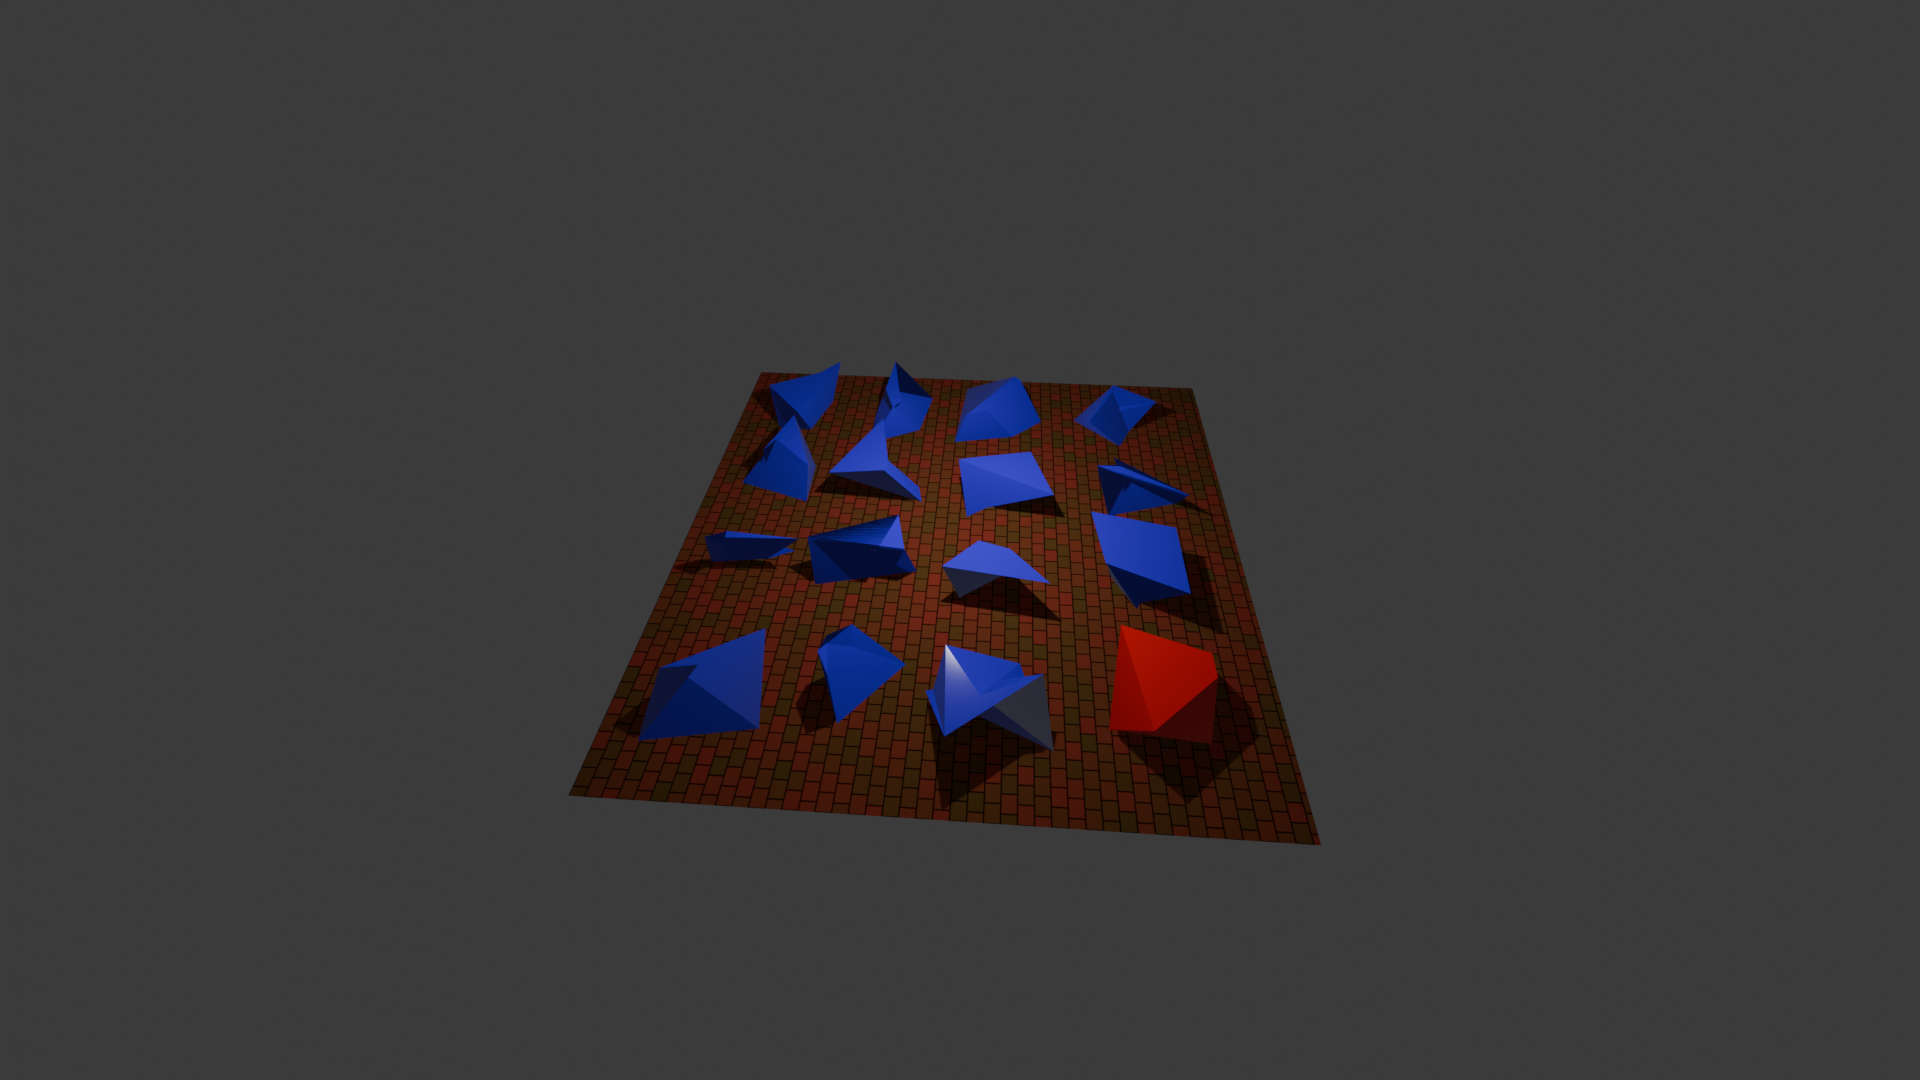
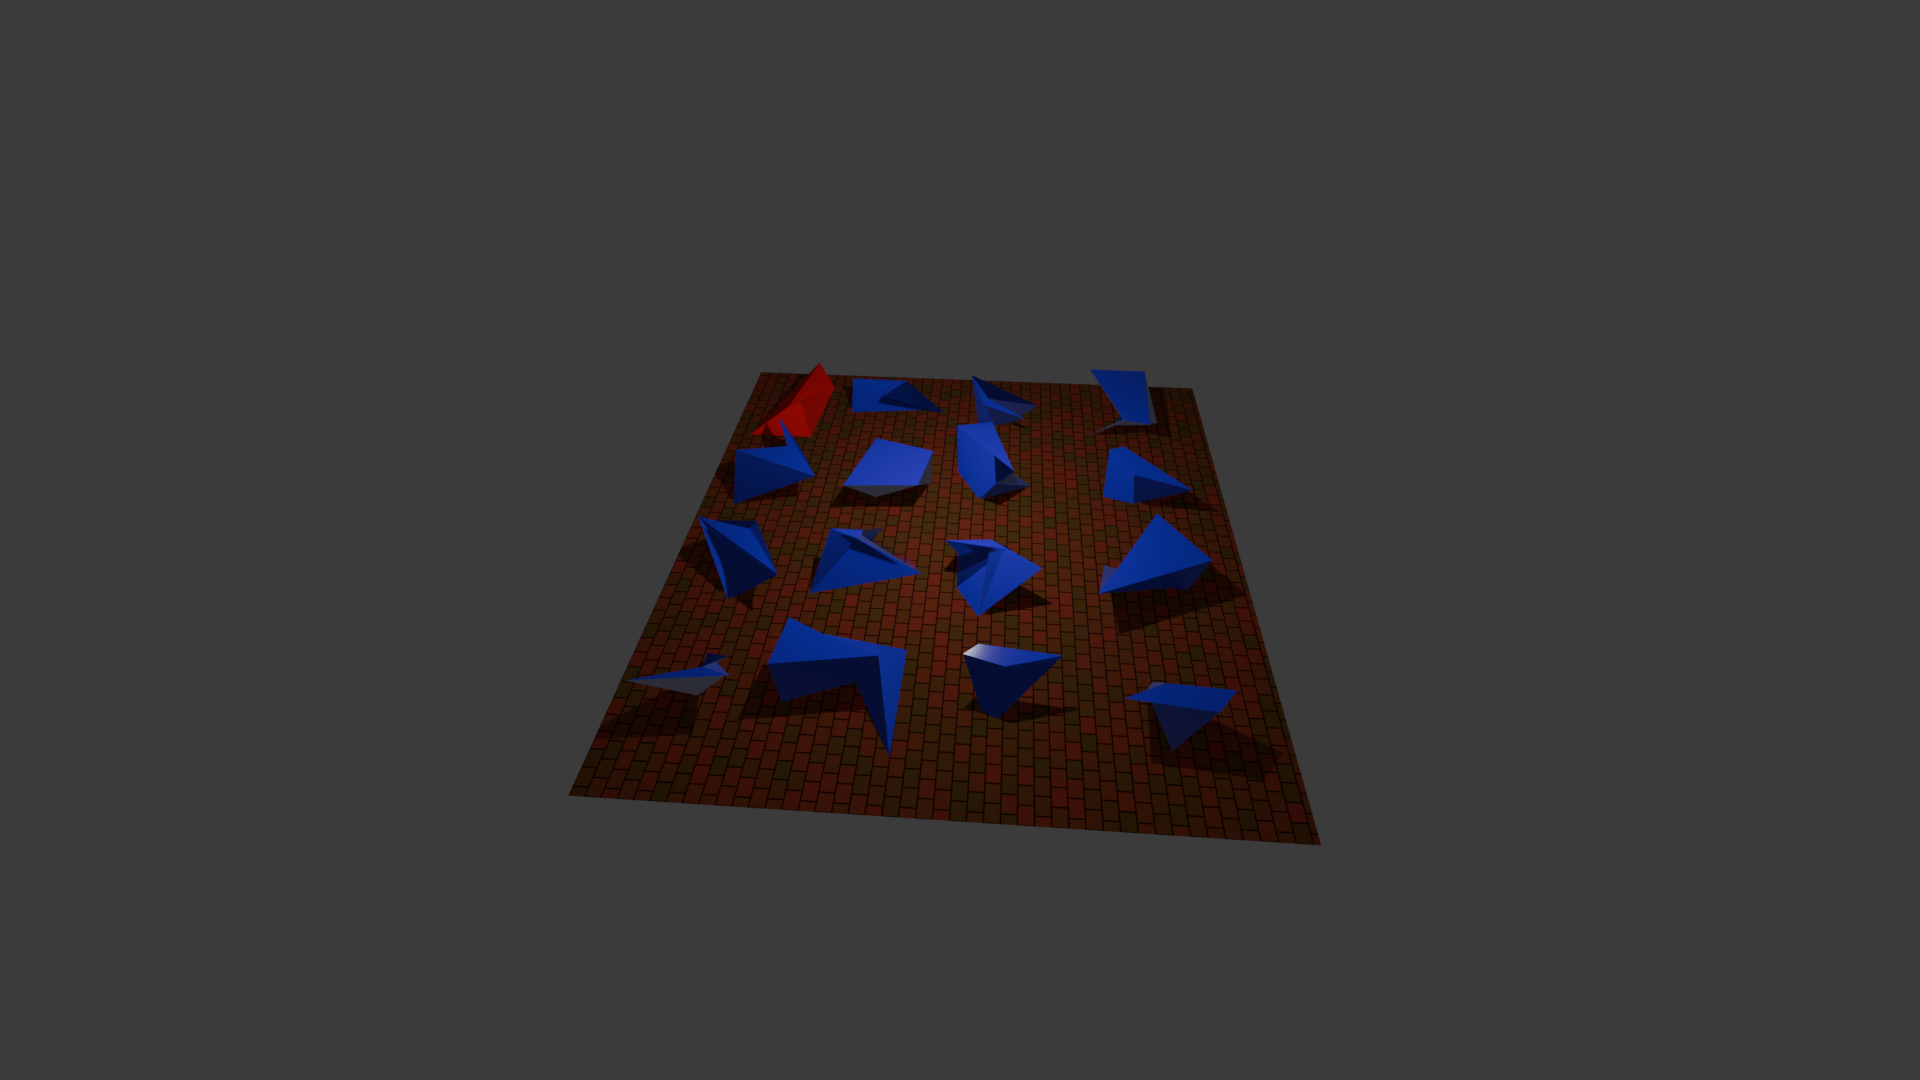
Cleanup

Changed region(s): [[0.3125, 0.3361, 0.6562, 0.7333]]

diff --git a/src/script.py b/src/script.py
@@ -1,129 +1,47 @@
 import bpy 
-import bmesh
-import math
-import random
-from mathutils import Vector
-from random import uniform
-
 from sys import path
 path.append('/home/stian/repos/Blender_project/src')
-from transformation import rotate
-from boundingbox import camera_view_bounds_2d
-
-# Variables ########################
-Collection_Name = "Created_Collection"
-nr_different_scenes = 4
-nr_of_squares = 16
-change_factor = 3
-
-####################################
+from functions import *
+from settings import *
 
 for variations in range(0,nr_different_scenes):
-    coll = bpy.data.collections.get(Collection_Name)
-    if coll:
-        obs = [o for o in coll.objects if o.users == 1]
-        while obs:
-            bpy.data.objects.remove(obs.pop())
+    # Reset all created objects in the scene
+    reset_object_collection(bpy.data.collections.get(Collection_Name))
 
-        bpy.data.collections.remove(coll)
+    # Create collection
     myCollection = bpy.data.collections.new(Collection_Name)
     bpy.context.scene.collection.children.link(myCollection)
 
-    # Object SQUARE
-    mat = bpy.data.materials.new(name='Material')
-
+    # Set uniform material TODO: Make this function return random material 
+    mat = set_material()
     mat.use_nodes=True
-    x = -24
+
+    x = y = -24 # Start in uppermost corner
     for curr_row in range(0,4,1):
-        x = x + (curr_row+8) # random.randint(-18, 18)
-        y = -24
+        x = x + (curr_row+8)
 
         for curr_col in range(0,4,1):
-            y = y + (curr_col+8) #random.randint(-18, 18)
+            y = y + (curr_col+8)
             bpy.ops.mesh.primitive_cube_add(size=3, location=(x,y,1.5))
 
-        
-            # Random apply transformation
-            context = bpy.context
-            # obj = context.edit_object
             obj = bpy.context.active_object
-            bpy.ops.object.mode_set(mode='EDIT')
-            mesh = obj.data
-            # get a bmesh
-            bm = bmesh.from_edit_mesh(mesh)
-            for v in bm.verts:
-                if not v.select:
-                    continue
-                v.co.xy += Vector([uniform(-change_factor, change_factor) for axis in "xy"])
-            #update.
-            bmesh.update_edit_mesh(mesh)
-            bpy.ops.object.mode_set(mode='OBJECT')
-
-
-
+            apply_random_transformation(obj)
             obj.name ='Cube_{}-{}'.format(curr_row,curr_col)
-            obj.data.materials.append(mat)
+            obj.data.materials.append(mat) # TODO: Call set_material function when it return random
             bpy.ops.collection.objects_remove_all()
             bpy.data.collections[Collection_Name].objects.link(obj)
+        y = -24 # New row
         
-        
-
     # Set one to be red aa 1stk farlig object
-    mat_find = bpy.data.materials.new(name='Material_red')
-    mat_find.use_nodes=True
-    mat_2 = mat_find.node_tree.nodes
-    mat_2['Principled BSDF'].inputs['Metallic'].default_value=0.0
-    mat_2['Principled BSDF'].inputs['Roughness'].default_value=0.5
-    mat_2['Principled BSDF'].inputs['Base Color'].default_value=(1.0, 0.0, 0.0, 1.0)
-    mat_2['Principled BSDF'].inputs['Roughness'].default_value=0.167
-    select_random_col = random.randint(0,4-1)
-    select_random_row = random.randint(0,4-1)
-    print(select_random_col," ***", select_random_row)
-    cube_red = bpy.data.collections[Collection_Name].objects.get("Cube_{}-{}".format(select_random_col,select_random_row))
-    cube_red.data.materials[0] = mat_find
-
+    positive_object = set_positive_object()
 
     # Light source
-    light_data = bpy.data.lights.new('light', type='POINT')
-    light = bpy.data.objects.new('light', light_data)
-    bpy.data.collections[Collection_Name].objects.link(light)
-    light.location = (0, 0, 20)  
-    light.data.energy=12000.0
-
-    mat_nodes = mat.node_tree.nodes
-    mat_nodes['Principled BSDF'].inputs['Metallic'].default_value=0.0
-    mat_nodes['Principled BSDF'].inputs['Roughness'].default_value=0.9
-    mat_nodes['Principled BSDF'].inputs['Base Color'].default_value=(0.05, 0.0185, 0.8, 1.0)
-    mat_nodes['Principled BSDF'].inputs['Roughness'].default_value=0.167
+    set_lighting()
 
     # Camera
-    cam_data = bpy.data.cameras.new('camera')
-    cam = bpy.data.objects.new('camera', cam_data)
-    bpy.data.collections[Collection_Name].objects.link(cam)
-    # add camera to scene
-    scene = bpy.context.scene
-    scene.camera=cam
-    cam.location=(20, -30, 40)
-    cam.data.lens_unit = 'FOV'
-    cam.data.angle = math.radians(110)
-    constraint = cam.constraints.new(type='TRACK_TO')
-    constraint.target=bpy.data.collections['Static_Collection'].objects.get("Plane")
+    cam = set_camera()
 
     # Render
-    scene = bpy.context.scene
-    scene.render.image_settings.file_format='PNG'
-    filename = f'/home/stian/repos/Blender_project/img/squares_{variations}'
-
-    scene = bpy.data.scenes['Scene']
-    camera_object = bpy.data.collections[Collection_Name].objects['camera']
-
-    for angle in range(0, 360, 360):
-            cam_location = cam.location
-            cam.location = rotate(cam_location, 60, axis=(0, 0, 1))
-
-            file_name = filename+"_"+str(angle)
-            scene.render.filepath=file_name
-            bpy.ops.render.render(write_still=1)
-            camera_view_bounds_2d(scene, camera_object, cube_red,file_name)
+    render_image(cam,variations, positive_object)
 
 

diff --git a/src/functions.py b/src/functions.py
@@ -1,0 +1,92 @@
+from settings import *
+import bpy 
+import bmesh
+from mathutils import Vector
+from random import uniform
+import random
+import math
+from boundingbox import camera_view_bounds_2d
+from transformation import rotate
+
+
+
+def reset_object_collection(coll):
+    if coll:
+        obs = [o for o in coll.objects if o.users == 1]
+        while obs:
+            bpy.data.objects.remove(obs.pop())
+        bpy.data.collections.remove(coll)
+ 
+def apply_random_transformation(current_object):
+    bpy.ops.object.mode_set(mode='EDIT')
+    mesh = current_object.data
+    bm = bmesh.from_edit_mesh(mesh)
+    for v in bm.verts:
+        if not v.select:
+            continue
+        v.co.xy += Vector([uniform(-change_factor, change_factor) for axis in "xy"])
+    bmesh.update_edit_mesh(mesh)
+    bpy.ops.object.mode_set(mode='OBJECT')
+
+def set_material():
+    mat = bpy.data.materials.new(name='Square_Material')
+    mat.use_nodes = True
+    mat_nodes = mat.node_tree.nodes
+    mat_nodes['Principled BSDF'].inputs['Metallic'].default_value=0.0
+    mat_nodes['Principled BSDF'].inputs['Roughness'].default_value=0.9
+    mat_nodes['Principled BSDF'].inputs['Base Color'].default_value=(0.05, 0.0185, 0.8, 1.0)
+    mat_nodes['Principled BSDF'].inputs['Roughness'].default_value=0.167
+    return mat
+
+def set_positive_object():
+    mat_find = bpy.data.materials.new(name='Material_red')
+    mat_find.use_nodes=True
+    mat_2 = mat_find.node_tree.nodes
+    mat_2['Principled BSDF'].inputs['Metallic'].default_value=0.0
+    mat_2['Principled BSDF'].inputs['Roughness'].default_value=0.5
+    mat_2['Principled BSDF'].inputs['Base Color'].default_value=(1.0, 0.0, 0.0, 1.0)
+    mat_2['Principled BSDF'].inputs['Roughness'].default_value=0.167
+    select_random_col = random.randint(0,4-1)
+    select_random_row = random.randint(0,4-1)
+    print(select_random_col," ***", select_random_row)
+    positive_cube = bpy.data.collections[Collection_Name].objects.get("Cube_{}-{}".format(select_random_col,select_random_row))
+    positive_cube.data.materials[0] = mat_find
+    return positive_cube
+
+def set_lighting():
+    light_data = bpy.data.lights.new('light', type='POINT')
+    light = bpy.data.objects.new('light', light_data)
+    bpy.data.collections[Collection_Name].objects.link(light)
+    light.location = (0, 0, 20)  
+    light.data.energy=8000.0
+
+def set_camera():
+    cam_data = bpy.data.cameras.new('camera')
+    cam = bpy.data.objects.new('camera', cam_data)
+    bpy.data.collections[Collection_Name].objects.link(cam)
+    # add camera to scene
+    scene = bpy.context.scene
+    scene.camera=cam
+    cam.location=(20, -30, 40)
+    cam.data.lens_unit = 'FOV'
+    cam.data.angle = math.radians(110)
+    constraint = cam.constraints.new(type='TRACK_TO')
+    constraint.target=bpy.data.collections['Static_Collection'].objects.get("Plane")
+    return cam
+
+def render_image(cam,variations,positive_cube):
+    scene = bpy.context.scene
+    scene.render.image_settings.file_format='PNG'
+    filename = f'/home/stian/repos/Blender_project/img/squares_{variations}'
+
+    scene = bpy.data.scenes['Scene']
+    camera_object = bpy.data.collections[Collection_Name].objects['camera']
+
+    for angle in range(0, 360, 360):
+            cam_location = cam.location
+            cam.location = rotate(cam_location, 60, axis=(0, 0, 1))
+
+            file_name = filename+"_"+str(angle)
+            scene.render.filepath=file_name
+            bpy.ops.render.render(write_still=1)
+            camera_view_bounds_2d(scene, camera_object, positive_cube,file_name)

diff --git a/src/boundingbox.py b/src/boundingbox.py
@@ -19,9 +19,6 @@ def image_with_bb(filename,x,y,width,height):
 
     im.save(filename+"_bb.png")  
 
-    
-
-
 def clamp(x, minimum, maximum):
     return max(minimum, min(x, maximum))
 

diff --git a/src/settings.py b/src/settings.py
@@ -1,0 +1,4 @@
+Collection_Name = "Created_Collection"
+nr_different_scenes = 4
+nr_of_squares = 16
+change_factor = 3
